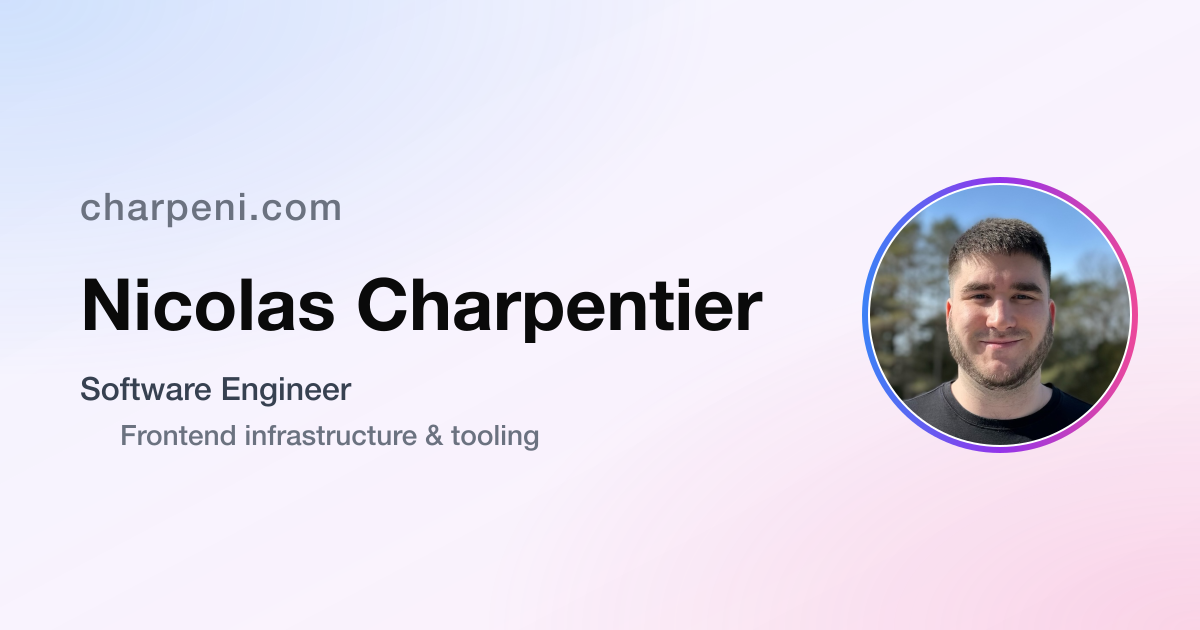
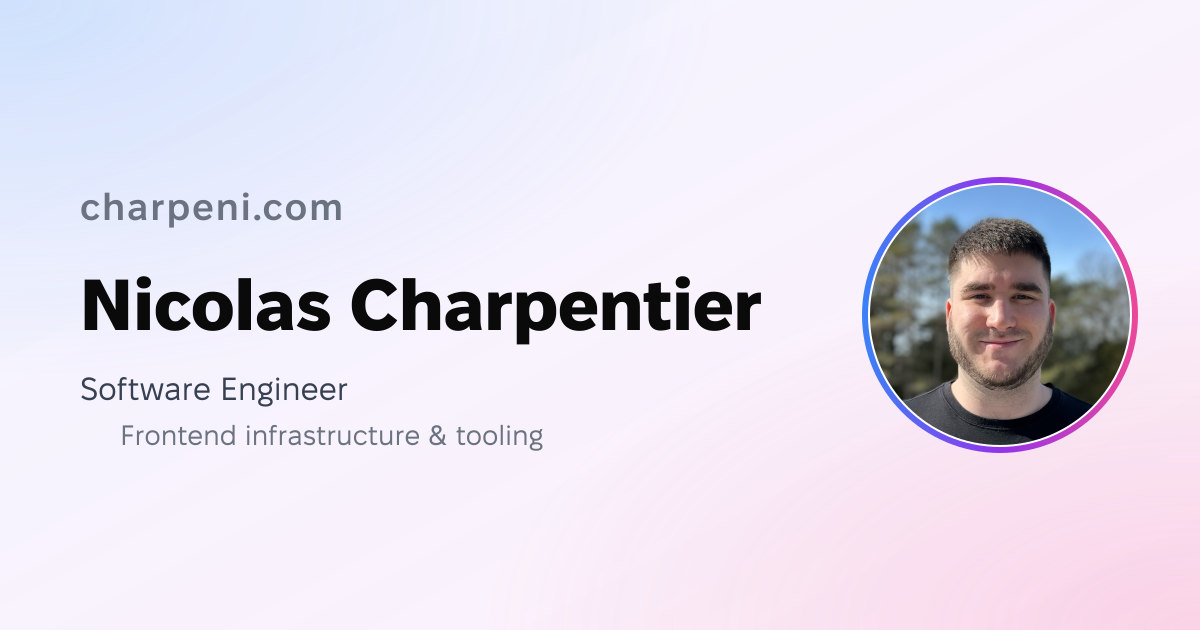
Render the default OG card with outlined glyphs too
Port generateOgDefault.ts to the same fontkit glyph-outlining approach
used for the per-post cards, so the sitewide og-default.png regenerates
byte-identically on any machine or CI runner instead of depending on
system fonts / fontconfig. Text now uses the site's Fixel typeface.

diff --git a/scripts/generateOgDefault.ts b/scripts/generateOgDefault.ts
@@ -8,10 +8,12 @@
  *
  * Then commit the regenerated PNG.
  *
- * The PNG is committed to the repo so the build pipeline never has to
- * rasterize text — this avoids font-rendering differences between local
- * macOS and the Linux build environment.
+ * Text is drawn as outlined glyph paths from the site's bundled Fixel font
+ * (see `textToPaths`), never SVG `<text>`, so the output is byte-identical on
+ * any machine or CI runner and never depends on system fonts / fontconfig.
  */
+
+import { create as createFont } from 'fontkit';
 
 import { mkdir, readFile } from 'node:fs/promises';
 import path from 'node:path';
@@ -36,6 +38,45 @@ const AVATAR_PATH = path.join(
   'images',
   'nicolas_charpentier.jpeg',
 );
+const FONTS_DIR = path.join(ROOT, 'public', 'fonts');
+
+/**
+ * The site's display font (Fixel Text), loaded once. Text renders as outlined
+ * glyph paths (see `textToPaths`) instead of SVG `<text>` because librsvg only
+ * resolves `<text>` through system fontconfig — absent in many CI runners and
+ * not reproducible across machines. Outlining the glyphs ourselves makes the
+ * card byte-identical anywhere and matches the site's own typography.
+ */
+async function loadFont(file) {
+  return createFont(await readFile(path.join(FONTS_DIR, file)));
+}
+const fontExtraBold = await loadFont('FixelText-ExtraBold.woff2');
+const fontSemiBold = await loadFont('FixelText-SemiBold.woff2');
+const fontRegular = await loadFont('FixelText-Regular.woff2');
+
+/**
+ * Render one line of text as filled glyph outlines. fontkit shapes the run
+ * (kerning/ligatures); each glyph path comes back in font units with a y-up
+ * baseline, so we translate it into place and flip Y (SVG points down) with a
+ * negative scale.
+ */
+function textToPaths(font, text, { x, y, fontSize, fill, letterSpacing = 0 }) {
+  const scale = fontSize / font.unitsPerEm;
+  const run = font.layout(text);
+  let penX = 0;
+  const glyphs = [];
+  run.glyphs.forEach((glyph, index) => {
+    const d = glyph.path.toSVG();
+    if (d) {
+      const gx = (x + penX).toFixed(2);
+      glyphs.push(
+        `<path transform="translate(${gx} ${y.toFixed(2)}) scale(${scale.toFixed(5)} ${(-scale).toFixed(5)})" d="${d}" fill="${fill}" />`,
+      );
+    }
+    penX += run.positions[index].xAdvance * scale + letterSpacing;
+  });
+  return glyphs.join('');
+}
 
 // Colors are taken from the homepage gradient (`GradientAnimation.module.css`):
 //   blue-500   #3b82f6
@@ -55,6 +96,33 @@ async function buildSvg(): Promise<string> {
   const avatarCy = HEIGHT / 2;
   const avatarR = avatarSize / 2;
   const ringWidth = 8;
+
+  const textBlock =
+    textToPaths(fontSemiBold, 'charpeni.com', {
+      x: 80,
+      y: 220,
+      fontSize: 38,
+      fill: '#6b7280',
+      letterSpacing: 2,
+    }) +
+    textToPaths(fontExtraBold, 'Nicolas Charpentier', {
+      x: 80,
+      y: 330,
+      fontSize: 72,
+      fill: '#0a0a0a',
+    }) +
+    textToPaths(fontRegular, 'Software Engineer', {
+      x: 80,
+      y: 400,
+      fontSize: 32,
+      fill: '#374151',
+    }) +
+    textToPaths(fontRegular, 'Frontend infrastructure & tooling', {
+      x: 120,
+      y: 445,
+      fontSize: 28,
+      fill: '#6b7280',
+    });
 
   return `<?xml version="1.0" encoding="UTF-8"?>
 <svg xmlns="http://www.w3.org/2000/svg" xmlns:xlink="http://www.w3.org/1999/xlink" width="${WIDTH}" height="${HEIGHT}" viewBox="0 0 ${WIDTH} ${HEIGHT}">
@@ -88,21 +156,8 @@ async function buildSvg(): Promise<string> {
   <rect width="${WIDTH}" height="${HEIGHT}" fill="url(#glowBlue)" />
   <rect width="${WIDTH}" height="${HEIGHT}" fill="url(#glowPink)" />
 
-  <!-- Text -->
-  <g font-family="-apple-system, BlinkMacSystemFont, 'Segoe UI', Roboto, 'Helvetica Neue', Arial, sans-serif">
-    <text x="80" y="220" font-size="38" font-weight="600" fill="#6b7280" letter-spacing="2">
-      charpeni.com
-    </text>
-    <text x="80" y="330" font-size="72" font-weight="800" fill="#0a0a0a">
-      Nicolas Charpentier
-    </text>
-    <text x="80" y="400" font-size="32" font-weight="500" fill="#374151">
-      Software Engineer
-    </text>
-    <text x="120" y="445" font-size="28" font-weight="500" fill="#6b7280">
-      Frontend infrastructure &amp; tooling
-    </text>
-  </g>
+  <!-- Name, role, and tagline as outlined glyph paths (see textToPaths) -->
+  ${textBlock}
 
   <!-- Avatar: gradient ring + clipped photo -->
   <circle cx="${avatarCx}" cy="${avatarCy}" r="${avatarR + ringWidth}" fill="url(#accent)" />
